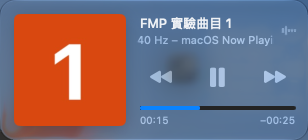
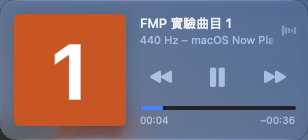
docs: close ticket 05 and fix review findings in the experiment
Coldstart results now carry the CanBeNowPlaying log line that fact
M10 cites; reruns use the final driver.

diff --git a/scripts/experiments/macos-now-playing/mediakey.swift b/scripts/experiments/macos-now-playing/mediakey.swift
@@ -17,10 +17,10 @@ guard AXIsProcessTrusted() else {
 }
 
 func post(down: Bool) {
-  let flags: UInt = down ? 0xa00 : 0xb00
-  let data1 = Int((key << 16) | (down ? 0xa00 : 0xb00))
+  let flags: Int32 = down ? 0xa00 : 0xb00  // NX_KEYDOWN／NX_KEYUP 放在 bit 8–15
+  let data1 = Int((key << 16) | flags)
   let event = NSEvent.otherEvent(
-    with: .systemDefined, location: .zero, modifierFlags: NSEvent.ModifierFlags(rawValue: flags),
+    with: .systemDefined, location: .zero, modifierFlags: NSEvent.ModifierFlags(rawValue: UInt(flags)),
     timestamp: 0, windowNumber: 0, context: nil, subtype: 8, data1: data1, data2: -1)
   event?.cgEvent?.post(tap: .cghidEventTap)
 }

diff --git a/scripts/experiments/macos-now-playing/probe_common/lib/src/probe_app.dart b/scripts/experiments/macos-now-playing/probe_common/lib/src/probe_app.dart
@@ -20,7 +20,7 @@ Future<void> runProbe(NowPlayingBridge bridge) async {
   await dir.create(recursive: true);
   final log = File('${dir.path}/events.jsonl');
   if (log.existsSync()) log.deleteSync();
-  // run.sh 從 stdout 找這一行，取回結果檔。
+  // run.py 從 stdout 找這一行，取回結果檔。
   stdout.writeln('PROBE_FILE ${log.path}');
 
   final tracks = await _makeTracks(dir);

diff --git a/scripts/experiments/macos-now-playing/probe_common/lib/src/bridge.dart b/scripts/experiments/macos-now-playing/probe_common/lib/src/bridge.dart
@@ -21,7 +21,7 @@ class TrackInfo {
   /// PNG 封面的本機路徑。
   final String artPath;
 
-  /// 有設 `--dart-define=ART_BASE=<網址>` 時，同一張封面的 HTTP 網址（run.sh 起本機 server）。
+  /// 有設 `--dart-define=ART_BASE=<網址>` 時，同一張封面的 HTTP 網址（run.py 起本機 server）。
   final String? artUrl;
 }
 

diff --git a/scripts/experiments/macos-now-playing/run.py b/scripts/experiments/macos-now-playing/run.py
@@ -11,7 +11,8 @@
   remote-art  封面改用本機 HTTP server 的網址（模擬 M1 的遠端封面，不連外網）。
 
 證據三份：面板（np-panel.sh 經輔助使用 API 讀 ControlCenter 的視窗）、App 收到的指令
-（App 寫的 events.jsonl）、系統 log（mediaremoted 的 Sending command 與 PlaybackState changed）。
+（App 寫的 events.jsonl）、系統 log（mediaremoted 的 Sending command、PlaybackState changed、
+CanBeNowPlaying changed）。
 見 README.md。
 """
 
@@ -40,7 +41,8 @@ def sh(*args, check=True):
     return r.stdout.strip()
 
 
-def panel_state():
+def panel_state(retry=True):
+    """讀面板。偶爾剛點開時讀到空的（沒有標題也沒有錯誤），就等一秒重讀一次。"""
     r = subprocess.run([str(HERE / "np-panel.sh"), "state"], capture_output=True, text=True)
     if r.returncode != 0:
         return {"error": r.stderr.strip()}
@@ -51,6 +53,9 @@ def panel_state():
     texts = out.get("text", "").split(" | ")
     slider = out.get("slider", "")
     pos, _, dur = slider.partition("/")
+    if retry and not texts[0]:
+        time.sleep(1)
+        return panel_state(retry=False)
     return {
         "title": texts[0] if texts and texts[0] else None,
         "buttons": out.get("buttons", "").split(" | ") if out.get("buttons") else [],
@@ -92,7 +97,7 @@ def track_no(state):
 def moved(delta):
     """下一首、上一首的判斷：相對動作前的曲目（曲目會自己播完換下一首，不能寫死）。"""
     before = track_no(panel_state())
-    return lambda s: track_no(s) == (before - 1 + delta) % 3 + 1
+    return lambda s: before is not None and track_no(s) == (before - 1 + delta) % 3 + 1
 
 
 class Probe:
@@ -115,8 +120,8 @@ class Probe:
             raise RuntimeError("App 沒印出 PROBE_FILE")
         self.seen = 0
 
-    def received(self):
-        """上次呼叫之後 App 收到的系統指令。"""
+    def take_received(self):
+        """取出上次取之後 App 收到的系統指令（會移動讀取位置）。"""
         if not self.events_path.exists():
             return []
         lines = [json.loads(l) for l in self.events_path.read_text().splitlines() if l]
@@ -125,8 +130,9 @@ class Probe:
         return [f"{e['name']}({e['detail']})" if "detail" in e else e["name"] for e in got]
 
     def quit(self):
-        self.proc.terminate()
-        self.proc.wait(timeout=10)
+        if self.proc.poll() is None:
+            self.proc.terminate()
+            self.proc.wait(timeout=10)
         self.raw.close()
 
 
@@ -136,7 +142,7 @@ def syslog(since, bundle):
             "/usr/bin/log", "show", "--info", "--style", "json", "--start", since,
             "--predicate",
             'process == "mediaremoted" AND (eventMessage CONTAINS "Sending command" '
-            'OR eventMessage CONTAINS "PlaybackState changed")',
+            'OR eventMessage CONTAINS "PlaybackState changed" OR eventMessage CONTAINS "CanBeNowPlaying changed")',
         ],
         capture_output=True, text=True,
     ).stdout
@@ -150,20 +156,29 @@ def syslog(since, bundle):
             rows.append(f"{t} command {m.group(1)} from {m.group(2)}")
         elif m := re.search(r"PlaybackState changed from (\w+) to (\w+)", msg):
             rows.append(f"{t} state {m.group(1)} -> {m.group(2)}")
+        elif m := re.search(r"(CanBeNowPlaying(?:Player)?) changed to (\w+)", msg):
+            rows.append(f"{t} {m.group(1)} -> {m.group(2)}")
     return rows
 
 
-def step(probe, steps, name, action, expect_received, check=None, wait=1.5):
-    if isinstance(check, tuple):  # ("moved", delta)：動作前才量起點
-        check = moved(check[1])
-        probe.received()
+def step(probe, steps, name, action, expect_received, check=None, wait=1.5, moved_by=None):
+    if moved_by is not None:  # 下一首、上一首：動作前才量起點
+        check = moved(moved_by)
+        probe.take_received()
     action()
     time.sleep(wait)
     state = panel_state()
-    got = probe.received()
+    got = probe.take_received()
     ok = got == expect_received and (check(state) if check else True)
     steps.append({"step": name, "expect": expect_received, "received": got, "panel": state, "ok": ok})
     print(f"{'OK ' if ok else 'NG '} {name}: received={got} panel={state}")
+
+
+# 播放／暫停鍵（togglePlayPause）在 App 端收到什麼：audio_service 轉成 click 再呼叫 play／pause。
+TOGGLE = {
+    "audio_service": {"pause": ["click(media)", "pause"], "play": ["click(media)", "play"]},
+    "channel": {"pause": ["togglePlayPause"], "play": ["togglePlayPause"]},
+}
 
 
 def run_basic(cand, steps, probe):
@@ -180,27 +195,25 @@ def run_basic(cand, steps, probe):
     steps.append({"step": "顯示：標題、歌手、封面、播放中、進度前進", "panel": [s1, s2], "ok": bool(shown)})
     print(f"{'OK ' if shown else 'NG '} 顯示 {s1} -> {s2}")
     panel("shot", str(RESULTS / f"{cand}-panel.png"))
-    probe.received()
+    probe.take_received()
     is_paused = lambda s: "play.fill" in s["buttons"]
     is_playing = lambda s: "pause.fill" in s["buttons"]
     step(probe, steps, "面板：暫停", lambda: panel("press", "toggle"), ["pause"], is_paused)
     step(probe, steps, "面板：播放", lambda: panel("press", "toggle"), ["play"], is_playing)
-    step(probe, steps, "面板：下一首", lambda: panel("press", "next"), ["next"], ("moved", 1))
-    step(probe, steps, "面板：上一首", lambda: panel("press", "previous"), ["previous"], ("moved", -1))
+    step(probe, steps, "面板：下一首", lambda: panel("press", "next"), ["next"], moved_by=1)
+    step(probe, steps, "面板：上一首", lambda: panel("press", "previous"), ["previous"], moved_by=-1)
     step(probe, steps, "面板：seek 到 30 秒", lambda: panel("seek", "30"), ["seek(30000)"], lambda s: 30 <= s["position"] < 33)
     panel("close")
-    toggle = ["click(media)", "pause"] if cand == "audio_service" else ["togglePlayPause"]
-    toggle2 = ["click(media)", "play"] if cand == "audio_service" else ["togglePlayPause"]
-    step(probe, steps, "媒體鍵：播放／暫停（暫停）", lambda: mediakey("play"), toggle, is_paused)
-    step(probe, steps, "媒體鍵：播放／暫停（播放）", lambda: mediakey("play"), toggle2, is_playing)
-    step(probe, steps, "媒體鍵：下一首", lambda: mediakey("next"), ["next"], ("moved", 1))
-    step(probe, steps, "媒體鍵：上一首", lambda: mediakey("previous"), ["previous"], ("moved", -1))
+    step(probe, steps, "媒體鍵：播放／暫停（暫停）", lambda: mediakey("play"), TOGGLE[cand]["pause"], is_paused)
+    step(probe, steps, "媒體鍵：播放／暫停（播放）", lambda: mediakey("play"), TOGGLE[cand]["play"], is_playing)
+    step(probe, steps, "媒體鍵：下一首", lambda: mediakey("next"), ["next"], moved_by=1)
+    step(probe, steps, "媒體鍵：上一首", lambda: mediakey("previous"), ["previous"], moved_by=-1)
     panel("close")
     probe.quit()
     time.sleep(2)
     s = panel_state()
     # 選單列的項目還在，但內容變成「未在播放」：沒有封面、沒有進度條。
-    gone = not s.get("image") and s.get("position") is None
+    gone = "error" not in s and s.get("title") is not None and not s.get("image") and s.get("position") is None
     steps.append({"step": "關掉 App 後 Now Playing 清掉", "panel": s, "ok": gone})
     print(f"{'OK ' if gone else 'NG '} 關掉 App: {s}")
     panel("close")
@@ -215,12 +228,12 @@ def run_coldstart(cand, steps, probe):
     panel("close")
     if not is_ours:
         # 沒有 App 在 Now Playing 時，媒體鍵會被系統轉給「音樂」並把它叫起來，所以不按。
-        steps.append({"step": "沒播過：媒體鍵播放／暫停", "skipped": "不是 Now Playing App，按了會叫起「音樂」", "ok": False})
+        steps.append({"step": "沒播過：媒體鍵播放／暫停", "skipped": "不是 Now Playing App，按了會叫起「音樂」", "ok": None})
         print("--  不是 Now Playing App，不按媒體鍵")
     else:
-        probe.received()
+        probe.take_received()
         step(probe, steps, "沒播過：媒體鍵播放／暫停", lambda: mediakey("play"),
-             ["click(media)", "play"] if cand == "audio_service" else ["togglePlayPause"],
+             TOGGLE[cand]["play"],
              lambda s: "pause.fill" in s["buttons"], wait=2)
         panel("close")
     probe.quit()
@@ -232,7 +245,7 @@ def run_remote_art(cand, steps, probe):
     time.sleep(2)
     s = panel_state()
     ok = bool(s.get("image"))
-    steps.append({"step": "遠端封面顯示", "panel": s, "ok": ok})
+    steps.append({"step": "遠端封面顯示", "panel": s, "http": list(ART_REQUESTS), "ok": ok and bool(ART_REQUESTS)})
     print(f"{'OK ' if ok else 'NG '} 遠端封面：{s}")
     panel("shot", str(RESULTS / f"{cand}-remote-art-panel.png"))
     panel("close")
@@ -240,12 +253,20 @@ def run_remote_art(cand, steps, probe):
     time.sleep(1)
 
 
+ART_REQUESTS = []
+
+
+class _ArtHandler(http.server.SimpleHTTPRequestHandler):
+    def log_message(self, fmt, *args):
+        ART_REQUESTS.append(f"{self.command} {self.path} -> {args[1] if len(args) > 1 else ''}")
+
+
 def serve_art(cand):
     """在 App 容器的暫存目錄起本機 HTTP server（App 啟動時才產生封面，server 先起來等）。"""
     bundle = BUNDLES[cand]
     root = pathlib.Path.home() / f"Library/Containers/{bundle}/Data/Library/Caches/{bundle}/macos-now-playing-{cand}"
     root.mkdir(parents=True, exist_ok=True)
-    handler = lambda *a, **k: http.server.SimpleHTTPRequestHandler(*a, directory=str(root), **k)
+    handler = lambda *a, **k: _ArtHandler(*a, directory=str(root), **k)
     httpd = http.server.ThreadingHTTPServer(("127.0.0.1", 0), handler)
     threading.Thread(target=httpd.serve_forever, daemon=True).start()
     return f"http://127.0.0.1:{httpd.server_address[1]}"
@@ -265,7 +286,10 @@ def main():
     since = dt.datetime.now().strftime("%Y-%m-%d %H:%M:%S")
     probe = Probe(cand, defines, RESULTS / f"raw-{cand}-{scenario}.log")
     steps = []
-    {"basic": run_basic, "coldstart": run_coldstart, "remote-art": run_remote_art}[scenario](cand, steps, probe)
+    try:
+        {"basic": run_basic, "coldstart": run_coldstart, "remote-art": run_remote_art}[scenario](cand, steps, probe)
+    finally:
+        probe.quit()  # 情境中途出錯也不留下還在播的 App，免得下一個情境讀到它
     result = {
         "candidate": cand,
         "scenario": scenario,

diff --git a/docs/design-brief.md b/docs/design-brief.md
@@ -487,7 +487,7 @@ FMP 是 Flutter 音樂播放器（目前支援 Android + Windows），音源為 
 - **M7**【待重驗】單一實例要靠 Info.plist 的 `LSMultipleInstancesProhibited`；點 Dock 叫回視窗要自己實作 `applicationShouldHandleReopen`，`FlutterAppDelegate` 沒實作它。出處：`archive:docs/adr/0036` §決定 4。可信度：上一版文件。
 - **M8** 穩定版 6.1.5 帶進來的 `flutter_inappwebview_macos` 1.1.2 在 Xcode 27.2 不加任何設定就建得過；沙盒 App 有 `com.apple.security.network.client`（事實 M3，`flutter create` 的範本沒有）就開得了網頁。Xcode 27.1 沒試（本機已更新）。上一輪用的是 1.2.0-beta.3，`archive:docs/adr/0036` §決定 9 記它在 Xcode 26.6 建不過（上一版文件，沒重驗，只適用 beta）。出處：M0 票 04（`scripts/experiments/inappwebview/`）。可信度：2026-11-11 實測（穩定版那部分）。
 - **M9** 第三方 App 從 macOS 15.4 起經 MediaRemote 私有框架讀不到 Now Playing（`mediaremoted` 改成要 entitlement）；發佈自己的 Now Playing 用公開的 `MPNowPlayingInfoCenter`，不受影響。驗證自己的 App 改用兩個管道：macOS 27 選單列的「正在播放」項目由 `MenuBarAgent` 提供（`AXIdentifier` 為 `com.apple.menuextra.now-playing`），點開的面板是 ControlCenter 的視窗，呼叫端有「輔助使用」權限時讀得到標題與歌手、按鈕識別碼（`backward.fill`、`play.fill`／`pause.fill`、`forward.fill`）、進度條的值與最大值（= 曲長），也能按按鈕與設定進度條（= seek）；`mediaremoted` 的系統 log 記下每個指令（`Sending command … command = Pause, SenderBundleIdentifier = <com.apple.controlcenter>` 與目標 App）與 `PlaybackState changed from Playing to Paused`，鍵盤媒體鍵的指令來自 `com.apple.rcd`。出處：Apple 的 macOS 15.4 安全公告 MediaRemote 條目（https://support.apple.com/en-us/122373 ，只寫 improved access restrictions）；https://community.folivora.ai/t/now-playing-is-no-longer-working-on-macos-15-4/42802 ；M0 票 05（`scripts/experiments/macos-now-playing/`）。可信度：限制來自社群回報與官方公告；驗證管道 2026-11-11 在 macOS 27.0.1 實測。
-- **M10** macOS 選 Now Playing App 要看實際出聲：App 送了 `nowPlayingInfo`、`playbackState = paused`、也註冊了 `MPRemoteCommandCenter` 的指令，`mediaremoted` 記下 `CanBeNowPlaying changed to true`，但沒出過聲就不會出現在選單列的「正在播放」，等 25 秒也一樣；這時按鍵盤的播放鍵，系統把 `TogglePlayPause` 轉給「音樂」App 並把它叫起來。出過聲之後暫停仍是 Now Playing App（暫停幾秒後從面板與媒體鍵都叫得回來；多久會被換掉沒有量）；App 結束後面板變成「未在播放」。`MPNowPlayingInfoCenter.playbackState` 只在 macOS 有作用，Apple 文件要求每次開始、停止播放都要設，否則遠端控制可能不正常。出處：M0 票 05（`scripts/experiments/macos-now-playing/`，`results/*-coldstart.json`）；https://developer.apple.com/documentation/mediaplayer/mpnowplayinginfocenter/playbackstate 。可信度：2026-11-11 在 macOS 27.0.1 實測。
+- **M10** macOS 選 Now Playing App 要看實際出聲：App 送了 `nowPlayingInfo`、`playbackState = paused`、也註冊了 `MPRemoteCommandCenter` 的指令，`mediaremoted` 記下 `CanBeNowPlaying changed to true`，但沒出過聲就不會出現在選單列的「正在播放」，等 25 秒也一樣；這時按鍵盤的播放鍵，系統把 `TogglePlayPause` 轉給「音樂」App 並把它叫起來（第一次跑時手動觀察到，`mediaremoted` 記了 `> to com.apple.Music`；之後的情境改成不按，細節在票 05 的 Comments）。出過聲之後暫停仍是 Now Playing App（暫停幾秒後從面板與媒體鍵都叫得回來；多久會被換掉沒有量）；App 結束後面板變成「未在播放」。`MPNowPlayingInfoCenter.playbackState` 只在 macOS 有作用，Apple 文件要求每次開始、停止播放都要設，否則遠端控制可能不正常。出處：M0 票 05（`scripts/experiments/macos-now-playing/`，`results/*-coldstart.json` 的系統 log 有 `CanBeNowPlaying -> true` 與 `state Unknown -> Paused`，面板讀不到這個 App）；https://developer.apple.com/documentation/mediaplayer/mpnowplayinginfocenter/playbackstate 。可信度：2026-11-11 在 macOS 27.0.1 實測。
 
 ### 18.7 iOS
 
@@ -519,7 +519,7 @@ FMP 是 Flutter 音樂播放器（目前支援 Android + Windows），音源為 
 - **K15** Android SDK platform-tools 37.0.1 的 adb server 在 macOS 上會自己當掉：預設的 mDNS 後端 `libadbmdns`（Rust）解析區網的 mDNS 封包時 panic（`adbmdns_bridge` → `simple_dns` 的 `Name::try_from`），unwind 失敗後 `abort()`。下一個 adb 指令（含 `flutter devices`）會再啟動 server，所以看起來像被別人重啟；server 不在的那段時間 `flutter devices` 看不到 Android 模擬器。`adb server-status` 的 `mdns_enabled` 顯示 mDNS 是否開著；環境變數 `ADB_MDNS=0` 啟動的 server 不開 mDNS（mDNS 只用在無線偵錯的自動發現，模擬器不靠它）。出處：開發機 `~/Library/Logs/DiagnosticReports/adb-*.ips`（2026-11-08 至 11-11 共 25 份，父行程都是 launchd、堆疊相同）與 adb server log（11-10 18:53 起 server 啟動 53 次，50 次留下 `libunwind: stepWithCompactEncoding - invalid compact unwind encoding`）；https://developer.android.com/tools/adb 〈adb mDNS backends〉與 `server-status`；Google Issue Tracker 573133666（adb 37.0.1 server 因 mDNS 封包當掉，`ADB_MDNS=0` 可避開；只讀到搜尋摘要，頁面要登入）。實測（2026-11-11，M0 票 02b）：`adb kill-server` 後以 `ADB_MDNS=0 adb start-server` 啟動，`adb server-status` 回 `mdns_enabled: false`、`mdns_backend: MDNS_DISABLED`，Android 模擬器 1 秒內回到 `device`。可信度：2026-11-11 讀 crash report 與官方文件，並在開發機實測 `ADB_MDNS=0`。
 - **K16** Dart 的 `RandomAccessFile.lock()` 在 macOS 是 POSIX fcntl 記錄鎖：屬於整個行程，持有的行程結束（含 `kill -9`）時 OS 自動放掉；同一個行程裡另外打開同一個檔再關掉，鎖就被放掉，同一個行程再鎖一次也不會被擋。`FileLock.exclusive` 拿不到時丟 `FileSystemException`（errno 35），`FileLock.blockingExclusive` 會一直等。出處：M0 票 02b 的實驗與 `app/test/tool/device_lock_test.dart`。可信度：2026-11-11 本機實測（Flutter 3.47.5 附的 Dart）。
 - **K17** `flutter_inappwebview` 6.1.5 的 Apple 端（`_ios` 1.1.2、`_macos` 1.1.2）只有 podspec，沒有 `Package.swift`：Flutter 3.47.5 對它們退回 CocoaPods，建置時警告「The following plugins do not support Swift Package Manager … This will become an error in a future version of Flutter」。`app/` 目前沒有 Podfile（只用 SwiftPM），加了它之後 iOS、macOS 都會多出 Podfile、`Podfile.lock` 與 `Pods/`，建置機器要裝 CocoaPods（本機 1.17.0 可用）。出處：M0 票 04（`scripts/experiments/inappwebview/`）的建置輸出；pub cache 裡兩個套件的目錄。可信度：2026-11-11 實測。
-- **K18** `audio_service` 0.18.19（2026-06-29，pub 最新；`audio_service_platform_interface` 0.1.3）在 macOS：原生端和 iOS 共用 `darwin/audio_service/Sources/audio_service/AudioServicePlugin.m`，用 `#if TARGET_OS_OSX` 設 `MPNowPlayingInfoCenter.playbackState`（事實 M10）；要等第一次收到 `playing == true` 的 `PlaybackState` 才註冊 `MPRemoteCommandCenter`；`changePlaybackPosition`（seek）要在 `PlaybackState.systemActions` 放 `MediaAction.seek` 才開；play、pause、上一首、下一首依 `controls` 開關；媒體鍵與 AirPods 的播放／暫停走 `togglePlayPauseCommand`，轉成 `click(MediaButton.media)`，`BaseAudioHandler.click` 依 `playbackState.playing` 呼叫 `play` 或 `pause`。封面由 Dart 端把 `artUri` 下載成檔案（`flutter_cache_manager` 的 `DefaultCacheManager`，`file://` 直接用路徑；`MediaItem.artHeaders` 可帶 header），原生端以 `NSImage` 讀檔，所以沙盒 App 要有 `com.apple.security.network.client`。README 的平台表 macOS 只缺 lock screen controls 與 CarPlay，其餘（含 control center、album art、seek）都打勾。實測 macOS 27.0.1 加 just_audio 0.10.6：選單列「正在播放」顯示標題、歌手、封面（本機檔與 HTTP 網址）、播放狀態與進度；面板的播放、暫停、上一首、下一首、seek 與鍵盤媒體鍵都收到，和自己用 platform channel 接 `MPNowPlayingInfoCenter`、`MPRemoteCommandCenter` 的結果相同。上游 #1139（iOS 不設 `playbackState`，事實 I5）的修正 2026-07-01 合進 master，至今沒發佈；macOS 不受影響。出處：audio_service 0.18.19 原始碼；https://github.com/ryanheise/audio_service/blob/master/audio_service/README.md ；https://github.com/ryanheise/audio_service/issues/1139 ；M0 票 05（`scripts/experiments/macos-now-playing/`）。可信度：2026-11-11 讀原始碼並在 macOS 27.0.1 實測。
+- **K18** `audio_service` 0.18.19（2026-06-29，pub 最新；`audio_service_platform_interface` 0.1.3）在 macOS：原生端和 iOS 共用 `darwin/audio_service/Sources/audio_service/AudioServicePlugin.m`，用 `#if TARGET_OS_OSX` 設 `MPNowPlayingInfoCenter.playbackState`（事實 M10）；要等第一次收到 `playing == true` 的 `PlaybackState` 才註冊 `MPRemoteCommandCenter`；`changePlaybackPosition`（seek）要在 `PlaybackState.systemActions` 放 `MediaAction.seek` 才開；play、pause、上一首、下一首依 `controls` 開關；媒體鍵與 AirPods 的播放／暫停走 `togglePlayPauseCommand`，轉成 `click(MediaButton.media)`，`BaseAudioHandler.click` 依 `playbackState.playing` 呼叫 `play` 或 `pause`。封面由 Dart 端把 `artUri` 下載成檔案（`flutter_cache_manager` 的 `DefaultCacheManager`，`file://` 直接用路徑；`MediaItem.artHeaders` 可帶 header），原生端以 `NSImage` 讀檔；下載走 Dart 的 HTTP，沙盒 App 要有 `com.apple.security.network.client`（實驗的 App 有開，沒做拿掉的對照）。README 的平台表 macOS 只缺 lock screen controls 與 CarPlay，其餘（含 control center、album art、seek）都打勾。實測 macOS 27.0.1 加 just_audio 0.10.6：選單列「正在播放」顯示標題、歌手、封面（本機檔與 HTTP 網址）、播放狀態與進度；面板的播放、暫停、上一首、下一首、seek 與鍵盤媒體鍵都收到，和自己用 platform channel 接 `MPNowPlayingInfoCenter`、`MPRemoteCommandCenter` 的結果相同。上游 #1139（iOS 不設 `playbackState`，事實 I5）的修正 2026-07-01 合進 master，至今沒發佈；macOS 不受影響。出處：audio_service 0.18.19 原始碼；https://github.com/ryanheise/audio_service/blob/master/audio_service/README.md ；https://github.com/ryanheise/audio_service/issues/1139 ；M0 票 05（`scripts/experiments/macos-now-playing/`）。可信度：2026-11-11 讀原始碼並在 macOS 27.0.1 實測。
 
 ### 18.9 工具鏈
 

diff --git a/scripts/experiments/macos-now-playing/README.md b/scripts/experiments/macos-now-playing/README.md
@@ -12,7 +12,7 @@ macOS 上的系統媒體控制怎麼接：`audio_service` 在 macOS 的實作，
 | --- | --- | --- |
 | 顯示標題、歌手 | ✅ | ✅ |
 | 顯示封面（本機檔） | ✅ | ✅ |
-| 顯示封面（HTTP 網址） | ✅（audio_service 用 `flutter_cache_manager` 下載） | 沒測（要自己下載） |
+| 顯示封面（HTTP 網址） | ✅（audio_service 用 `flutter_cache_manager` 下載；結果檔記了本機 server 收到的 `GET /art-0.png`） | 沒測（要自己下載） |
 | 播放狀態（面板的播放／暫停鈕跟著變） | ✅ | ✅ |
 | 進度（面板進度條前進、暫停時停住、曲長 40 秒） | ✅ | ✅ |
 | 面板：播放、暫停、下一首、上一首 | ✅ | ✅ |
@@ -26,7 +26,7 @@ macOS 上的系統媒體控制怎麼接：`audio_service` 在 macOS 的實作，
 ### 觀察
 
 - **兩個候選的表現相同**。audio_service 的 macOS 原生端和 iOS 共用 `darwin/.../AudioServicePlugin.m`：會設 macOS 才有的 `MPNowPlayingInfoCenter.playbackState`（Apple 文件要求每次開始、停止播放都要設），`changePlaybackPosition` 要在 `PlaybackState.systemActions` 放 `MediaAction.seek` 才開。媒體鍵與 AirPods 的播放／暫停走 `togglePlayPauseCommand`，audio_service 轉成 `click(MediaButton.media)`，`BaseAudioHandler.click` 依 `playbackState.playing` 呼叫 `play` 或 `pause`，所以 `playbackState` 必須即時。
-- **沒出過聲就不是 Now Playing App**（平台行為，兩個候選一樣）。`AUTOPLAY=false` 時，App 已送出曲目資訊與暫停狀態、channel 版也已註冊指令，系統 log 有 `CanBeNowPlaying changed to true`、`PlaybackState changed from Unknown to Paused`，但選單列沒有出現 Now Playing，等 25 秒也沒有。這時按媒體鍵，系統把 `TogglePlayPause` 轉給「音樂」App，並把它叫起來（第一次跑時實際發生，之後的 coldstart 情境改成不按）。audio_service 另外要等第一次 `playing=true` 才註冊 `MPRemoteCommandCenter`，但就算提早註冊（channel 版）也一樣。含意：重啟後要先在 App 裡按播放，系統媒體控制才會接到 FMP。
+- **沒出過聲就不是 Now Playing App**（平台行為，兩個候選一樣）。`AUTOPLAY=false` 時，兩個候選都送出了曲目資訊與暫停狀態（系統 log 有 `PlaybackState changed from Unknown to Paused`）；channel 版也已註冊指令，系統 log 還多了 `CanBeNowPlaying changed to true`（audio_service 版沒有，因為它還沒註冊指令）。兩者的選單列都沒有出現 Now Playing，等 25 秒也沒有（`results/*-coldstart.json`）。這時按媒體鍵，系統把 `TogglePlayPause` 轉給「音樂」App，並把它叫起來：第一次跑時實際發生（手動讀系統 log 看到 `> to com.apple.Music`，沒存進結果檔），之後的 coldstart 情境改成不按，那一步記成 `skipped`。audio_service 另外要等第一次 `playing=true` 才註冊 `MPRemoteCommandCenter`，但就算提早註冊（channel 版）也一樣。含意：重啟後要先在 App 裡按播放，系統媒體控制才會接到 FMP。
 - **暫停後仍是 Now Playing App**：basic 情境暫停幾秒後再從面板或媒體鍵播放都收得到。暫停多久會被系統換掉沒有量。
 - **封面**：audio_service 的 Dart 端把 `artUri` 下載成檔案（`flutter_cache_manager` 的 `DefaultCacheManager`，`cached_network_image` 預設也用它），原生端用 `NSImage` 讀檔。沙盒 App 要有 `com.apple.security.network.client`。`MediaItem.artHeaders` 可帶 header。
 - 依賴：audio_service 會帶進 `flutter_cache_manager`、sqflite、rxdart、audio_session。Android、iOS 本來就用 audio_service（brief §6），所以 macOS 也用它不會讓 App 多出依賴。
@@ -36,7 +36,7 @@ macOS 上的系統媒體控制怎麼接：`audio_service` 在 macOS 的實作，
 
 macOS 15.4 起，第三方 App 經 MediaRemote 讀不到 Now Playing（brief 事實 M9）。這個實驗不讀 MediaRemote，改用三份證據：
 
-1. **面板**：macOS 27 選單列的「正在播放」項目由 `MenuBarAgent` 提供（`AXIdentifier` 是 `com.apple.menuextra.now-playing`），點開後的面板是 ControlCenter 的視窗。呼叫端有「輔助使用」權限時，`np-panel.sh` 經 System Events 讀得到標題與歌手（一段文字）、按鈕（`backward.fill`、`play.fill` 或 `pause.fill`、`forward.fill`）、進度條的值與最大值（= 曲長）、有沒有封面的影像元素；也能按按鈕、設定進度條的值（= 拖進度條 seek）。封面對不對看截圖（`np-panel.sh shot`，要「螢幕錄製」權限）。
+1. **面板**：macOS 27 選單列的「正在播放」項目由 `MenuBarAgent` 提供（`AXIdentifier` 是 `com.apple.menuextra.now-playing`），點開後的面板是 ControlCenter 的視窗。呼叫端有「輔助使用」權限時，`np-panel.sh` 經 System Events 讀得到標題與歌手（一段文字）、按鈕（`backward.fill`、`play.fill` 或 `pause.fill`、`forward.fill`）、進度條的值與最大值（= 曲長）、有沒有封面的影像元素；也能按按鈕、設定進度條的值（= 拖進度條 seek）。結果檔的 `image` 只表示面板上有影像元素，封面對不對看截圖（`np-panel.sh shot`，要「螢幕錄製」權限）。限制：`np-panel.sh` 只看 ControlCenter 有沒有視窗，控制中心的其他模組開著時會讀錯；`close` 送的是全域的 Escape，會打到最前面的 App，所以別和會開視窗的測試（例如完整閘門的 macOS integration_test）同時跑。
 2. **App 收到的指令**：App 把收到的每個系統指令寫進容器暫存目錄的 `events.jsonl`，也印到 stdout。
 3. **系統 log**：`mediaremoted` 記下每個指令（`Sending command … command = Pause, SenderBundleIdentifier = <com.apple.controlcenter>` 與目標 App）與播放狀態的變化（`PlaybackState changed from Playing to Paused`）。面板的指令來自 `com.apple.controlcenter`，媒體鍵來自 `com.apple.rcd`（和實體鍵同一條路）。用 `/usr/bin/log show --predicate 'process == "mediaremoted"'` 讀；zsh 的 `log` 是內建指令，要寫全路徑。
 

diff --git a/.scratch/m0/issues/05-experiment-macos-now-playing.md b/.scratch/m0/issues/05-experiment-macos-now-playing.md
@@ -6,9 +6,22 @@
 
 **Blocked by:** None (can start immediately)
 
-**Status:** ready-for-agent
+**Status:** done
 
-- [ ] 實驗程式在 `scripts/experiments/` 底下，可重跑，附怎麼跑的說明。
-- [ ] 每個候選實測：顯示標題、封面、播放狀態與進度；接收播放、暫停、上一首、下一首、seek。macOS 27 不讓第三方讀 Now Playing，驗證方式（目測、系統 log）寫明。
-- [ ] 重驗事實 R4、M4；查到的新事實附來源寫進 brief §18。
-- [ ] 結論草稿（用哪個接法、它的限制）先給擁有者確認；確認後寫進 brief §6、brief §17 移除該條、plan §1.4、§6 P2 更新。
+- [x] 實驗程式在 `scripts/experiments/` 底下，可重跑，附怎麼跑的說明。
+- [x] 每個候選實測：顯示標題、封面、播放狀態與進度；接收播放、暫停、上一首、下一首、seek。macOS 27 不讓第三方讀 Now Playing，驗證方式（目測、系統 log）寫明。
+- [x] 重驗事實 R4、M4；查到的新事實附來源寫進 brief §18。
+- [x] 結論草稿（用哪個接法、它的限制）先給擁有者確認；確認後寫進 brief §6、brief §17 移除該條、plan §1.4、§6 P2 更新。
+
+## Comments
+
+- 結論（擁有者 2026-11-11 經 AskUserQuestion 確認）：macOS 也用 audio_service；自己的 platform channel 留作退路（plan §7）。macOS 27.0.1 上兩個候選表現相同：選單列「正在播放」顯示標題、歌手、封面、播放狀態與進度；面板的播放、暫停、上一首、下一首、seek 與鍵盤媒體鍵都收到；App 結束後清空。結果表與觀察在 `scripts/experiments/macos-now-playing/README.md`，每一步的原始結果在 `results/*.json`。
+- 驗證方式：不讀 MediaRemote（macOS 15.4 起第三方讀不到），改用三份證據：輔助使用 API 讀選單列的「正在播放」面板（`np-panel.sh`）、App 自己記下收到的指令、`mediaremoted` 的系統 log（brief 事實 M9）。媒體鍵用 `mediakey.swift` 模擬，和實體鍵同一條路（系統 log 的來源是 `com.apple.rcd`）。AirPods 沒有硬體可測；它的播放／暫停走同一個 `togglePlayPauseCommand`，推測相同。
+- 平台限制（兩個候選一樣）：App 沒出過聲就不是 Now Playing App（事實 M10）。brief §6 已寫：重啟後要先在 App 裡按播放，系統媒體控制才接到 FMP。
+- 事實：重驗 M4（成立，附 pub 與原始碼出處）、R4（macOS 的部分改寫）；順手以原始碼證實 I5（iOS 不設 `playbackState`，#1139 的修正合併後沒發佈），拿掉【待重驗】但註明 iOS 上沒實測。新增 M9、M10、K18（原本寫 K17，合併 main 時和票 04 的 K17 撞號，改成 K18，引用一起改）。
+- 共用裝置：實驗 App 的 bundle id 是 `com.personal.fmp.exp.probeAudioService`、`com.personal.fmp.exp.probeChannel`，只在 Mac 本機開，不碰 dev App、模擬器、`winpc`，所以沒拿共用裝置鎖（協調者同意的做法）。Now Playing 是整台 Mac 共用的：別的 App 同時播放會搶走面板，跑實驗時沒有其他 App 在播。完整閘門自己拿鎖。
+- 意外：第一版 coldstart 情境只等 3 秒就對沒出過聲的 App 按媒體鍵，系統把指令轉給「音樂」App，把它叫起來，停在首次啟動的通知詢問對話框。背景點擊對那個對話框無效，所以直接結束行程（沒回答對話框，下次開啟時照舊出現）。之後 coldstart 改成等 25 秒、確定面板是這個 App 才按，不是就跳過（結果檔記成 `skipped`）。
+- 讀面板偶爾剛點開時讀到空的：一次 channel basic 在 seek 後讀到空面板，驅動程式當掉，留下還在播的 App，污染了下一個情境。已改成讀到空的就重讀一次、情境中途出錯也關掉 App，結果檔全部用最終版的驅動程式重跑。
+- 沒測：`flutter_media_session` 3.1.0（2026-11 才發佈，macOS 端沒設 `playbackState`）；channel 版的遠端封面（要自己下載，M1 若改用 channel 時再做）；暫停多久會被系統換掉；release 建置。
+- code-review（c3dfd856 起）已處理：M10 的出處對不上提交的結果檔 → `run.py` 的系統 log 多收 `CanBeNowPlaying changed`、重跑 coldstart，「叫起音樂」改註明是手動觀察；coldstart 跳過的那步從 `ok: false` 改成 `null`；兩處註解寫 `run.sh` → `run.py`；「關掉 App」的判斷遇到讀面板失敗會假 OK → 排除錯誤並要求有標題；K18 的 `network.client` 改註明沒做拿掉的對照；remote-art 沒留 HTTP 證據 → 結果檔記下本機 server 收到的請求；`np-panel.sh` 讀錯視窗與全域 Escape 的限制寫進 README；`received()` 改名 `take_received()`、`step()` 的 tuple 參數改成 `moved_by`、toggle 的預期值收成一張表、`mediakey.swift` 的旗標只算一次。
+- code-review 未處理（不做，理由）：第一個 commit 的 subject 74 字元，超過 72（已經合併 main 在後，改要重寫歷史）；#1139 的狀態在 I5、K18、plan §7 各寫一次（各自的上下文需要，plan §7 只是引用）。

diff --git a/docs/progress.md b/docs/progress.md
@@ -49,6 +49,7 @@
 | 2026-11-11 | 07 | drift 空庫：`data/database.dart` 的 `AppDatabase`（schema 版本 1、還沒有資料表），檔案由 `platform/database_file.dart` 給（App 支援目錄的 `fmp.sqlite`），`main` 啟動時開庫並寫 log；schema 快照在 `app/drift_schemas/`，升級測試範本在 `app/test/drift/app_database/`；閘門加 `codegen (build_runner)` 與 `schema snapshot (drift)`，改 schema 的流程寫進 plan §3；四平台實跑讀回資料庫檔；brief 事實 K14，plan §1.4、§2、§3、§4 已更新。細節與未處理的發現在票的 Comments | 新 session 下 `/implement .scratch/m0/issues/04-experiment-inappwebview-build.md` |
 | 2026-11-11 | 02b | 完整版加跨 worktree 的共用裝置鎖（`app/tool/src/device_lock.dart`，OS 檔案鎖放在 git common dir 的 `fmp-device.lock`）：`winpc` 的同步與建置、四平台的 integration_test 都在持鎖時跑，拿不到就印出持有者並等待，持有者死掉時 OS 自動放掉；兩個 worktree 互蓋的 repro 修前紅、修後綠，並在測試檔內做雙向變異；鎖的位置、行為與手動解除寫進 plan §2、§4。`winpc` 的 Dart 當掉查清楚是環境問題（硬體或韌體不穩，不是產品也不是閘門），adb「被重啟」其實是 adb 37.0.1 的 server 在 mDNS 模組當掉（brief 事實 K15、K16，plan §2）。協調者追加後補上手動實跑的鎖：包裝指令 `dart run tool/device_lock.dart -- <指令>`，`tool/winpc/` 的腳本沒持鎖時自己拿，同一個 worktree 可重入（互動時可以背景持鎖）。擁有者決定 `winpc` 不查、遇到就重跑；adb 改以 `ADB_MDNS=0` 啟動，已實測，包裝指令與閘門會以此叫起 adb server。細節在票的 Comments | 新 session 下 `/implement .scratch/m0/issues/04-experiment-inappwebview-build.md` |
 | 2026-11-11 | 04 | flutter_inappwebview 6.1.5 四平台建置與開頁實測（`scripts/experiments/inappwebview/`）：macOS、iOS 模擬器、Android（debug、release）、Windows（debug、release）都建得起來並開出 example.com，讀回畫面。重驗 brief 事實 A4（仍需要）、W8（define 仍需要，`/FS` 留著當保險，`/utf-8` 不需要）、M8（穩定版在 Xcode 27.2 不加設定就過）、K8（仍成立，`pub upgrade --unlock-transitive` 才清得掉），四條拿掉【待重驗】；M3 的 WKWebView 那半句實測成立；新增 K17（Apple 端沒有 SwiftPM，`app/` 加它會多出 CocoaPods，留給 M2 登入票決定）；T1 補本機 Xcode 已是 27.2。給登入票的設定清單在票的 Comments | 新 session 下 `/implement .scratch/m0/issues/05-experiment-macos-now-playing.md` |
+| 2026-11-12 | 05 | macOS Now Playing 實測（`scripts/experiments/macos-now-playing/`）：audio_service 0.18.19 與自己的 platform channel 在 macOS 27.0.1 表現相同，顯示（標題、封面、狀態、進度）與指令（面板與媒體鍵的播放、暫停、上一首、下一首、seek）都過；驗證改用輔助使用 API 讀選單列面板加 `mediaremoted` 系統 log（事實 M9）。App 沒出過聲就不是 Now Playing App（事實 M10）。擁有者確認 macOS 用 audio_service，brief §6、§17 與 plan §1.4、§2、§6 P2、§7 已寫入；重驗 M4、R4、I5，新增 M9、M10、K18 | 新 session 下 `/implement .scratch/m0/issues/05b-experiment-liquid-glass.md` |
 
 ## 偏差與決定
 
@@ -83,3 +84,4 @@
 - 2026-11-11 票 01：plan §1.3 加例外，只有 `playback/backends/`（音訊後端的兩個實作）可 import `just_audio`、`media_kit`（原本 §1.2 與 §1.3 互相矛盾；擁有者確認）。
 - 2026-11-11 M0 票 03：擁有者確認插件的 JS 引擎用 fjs 3.3.2（brief 事實 K7、K11；plan §1.1、§1.4），票 08 的驗收加上「建立引擎時只開白名單內建模組」的測試；`winpc` 的 rustup default host 改成 msvc（fjs 在 Windows 從 Rust 原始碼編）。
 - 2026-11-11 票 06 後：擁有者確認 B 站 WBI 的 `w_rid` 不遮（用公開的 `img_key`／`sub_key` 算出、不是憑證）；`AGENTS.md`〈公開 repo〉補一句，`app/test/core/redaction_test.dart` 的「不遮」案例守著它。
+- 2026-11-12 M0 票 05：擁有者確認 macOS 的系統媒體控制用 audio_service（brief §6、事實 M10、K18；plan §1.4），自己的 platform channel 留作退路（plan §7）；brief §17 那條與 plan〈待決〉P2 刪除。
